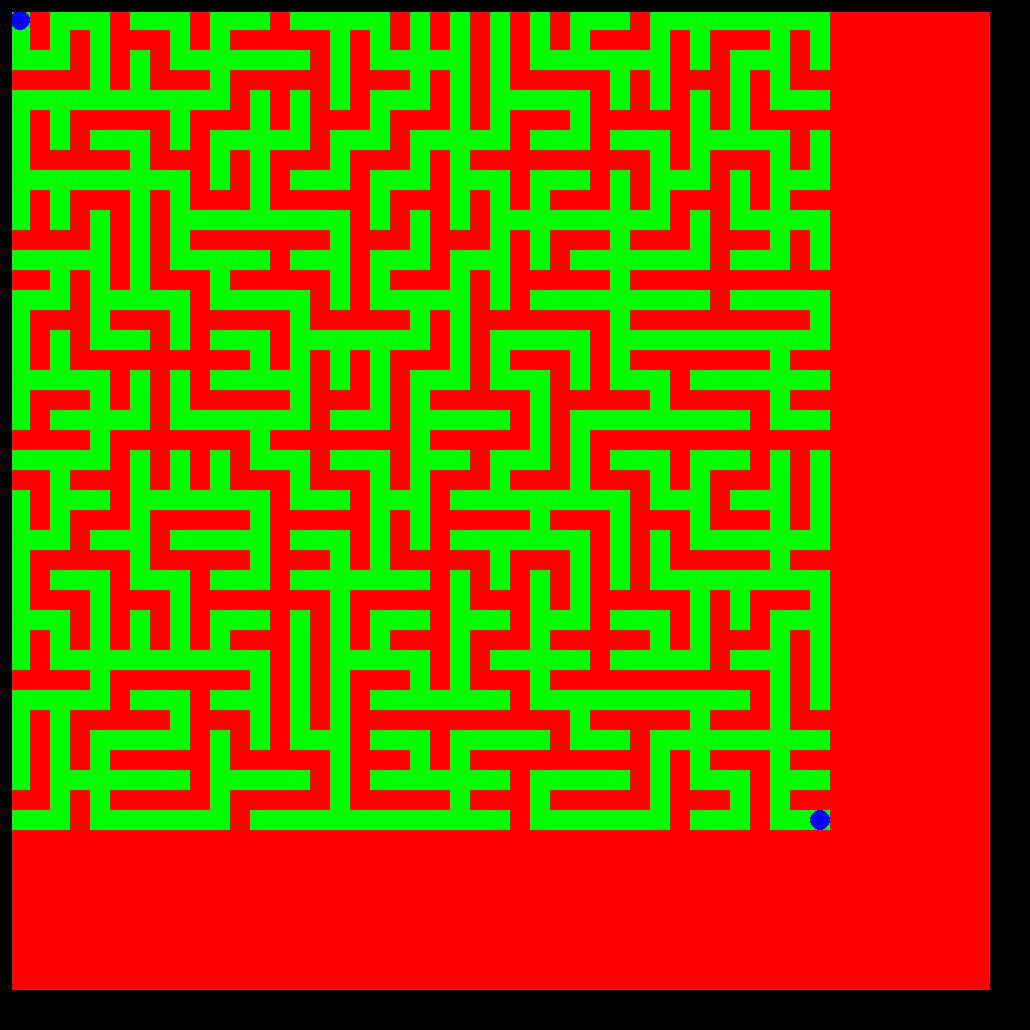
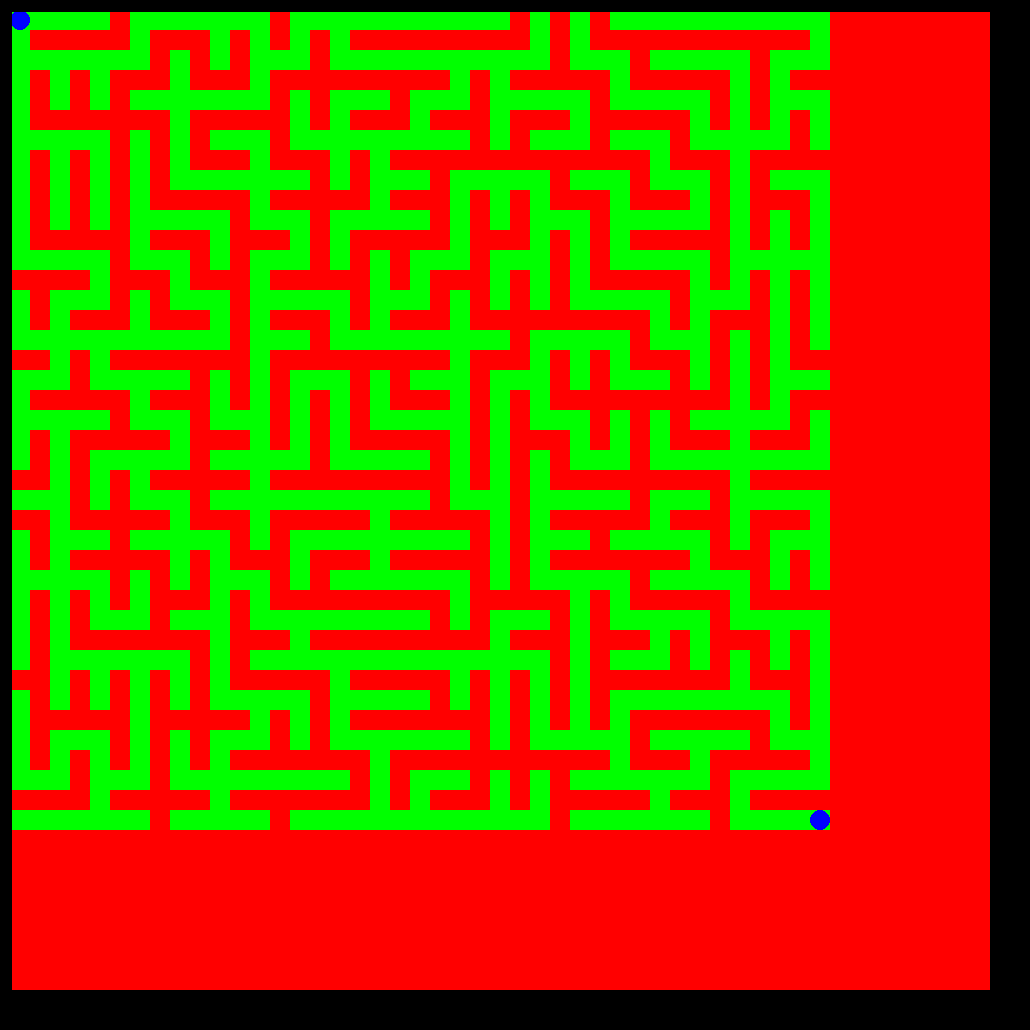
n_size and screensize

diff --git a/game.py b/game.py
@@ -7,6 +7,7 @@ from map_gen_wilson import WilsonMazeGenerator
 pygame.init()
 screensize = (1200,800)
 screen = pygame.display.set_mode(screensize) #size of the screen
+pygame.display.set_caption("Gay")
 clock = pygame.time.Clock()
 running = True
 dt = 0
@@ -25,6 +26,7 @@ lnk = "img_assets/"+charac_name+".png"
 sprite_img = pygame.image.load(lnk).convert_alpha()
 bg_tileset = pygame.image.load("img_assets/sheet.png").convert_alpha()
 main_bg = pygame.image.load("img_assets/catbg1.jpg")
+opt_bg = pygame.image.load('img_assets/optbg.png')
 flip_char = False               #is the character facing left?
 r_l_is = False                  #is it moving right and left?
 u_d_is = False                  #is it moving up and down?
@@ -47,7 +49,7 @@ pygame.mixer.music.play(-1)
 NDEBUG = True
 
 
-set1 = False
+set1 = True
 if set1:
     leftkey = pygame.K_a
     rightkey = pygame.K_d
@@ -128,6 +130,8 @@ bg_start = get_image(bg_tileset, 176, 96, 32, 32, scalebg, (0, 0, 0))
 bg_end = get_image(bg_tileset, 176, 128, 32, 32, scalebg, (0, 0, 0))
 
 main_img_backg = get_image(main_bg,120,25,1200,800,screensize,(0,0,0))
+opt_img_bg = get_image(opt_bg,0,0,1087,605,screensize,(0,0,0))
+
 
 #to see which type of mode is going on
 
@@ -343,8 +347,8 @@ def mask(screen,time,time_tot):
 
 
 ######## wilson maze renderer ########
-def wilson_maze():
-    maze = WilsonMazeGenerator(40,40)
+def wilson_maze(n_size):
+    maze = WilsonMazeGenerator(n_size,n_size)
     maze.generate_maze()
     maze.solve_maze()
     solution = maze.solution
@@ -363,14 +367,14 @@ def wilson_maze():
     maze.show_solution(True)
     path = path[::-1]
     print(path)
-    marked_map = [['' for i in range(49)] for j in range(49)]
-    for i in range(41):
-        for j in range(41):
-            if maze.grid[j][40 -i] != 0:
+    marked_map = [['' for i in range(n_size +9)] for j in range(n_size +9)]
+    for i in range(n_size +1):
+        for j in range(n_size +1):
+            if maze.grid[j][n_size -i] != 0:
                 marked_map[i][j] = str(random.randint(1,8))
                 marked_map[i][j] += 'i'
     marked_map[0][0] += 'q'
-    marked_map[40][40] += 'z'
+    marked_map[n_size][n_size] += 'z'
     
     
     return marked_map, solution
@@ -388,6 +392,7 @@ while running:
     time_strng = f"{total_min}:{total_sec}" if total_sec>=10 else f"{total_min}:0{total_sec}"
     if time_tot <= 0:
         mode = "gameover"
+        screen = pygame.display.set_mode(screensize)
         pygame.mixer.music.stop()
     mousedown = False
     
@@ -409,6 +414,16 @@ while running:
 
     match mode:
         case "startmenu":
+            if set1:
+                leftkey = pygame.K_a
+                rightkey = pygame.K_d
+                upkey = pygame.K_w
+                downkey = pygame.K_s
+            else:
+                leftkey = pygame.K_LEFT
+                rightkey = pygame.K_RIGHT
+                upkey = pygame.K_UP
+                downkey = pygame.K_DOWN
             #print(flag)
             screen.fill("black")
             screen.blit(main_img_backg,(0,0))
@@ -472,13 +487,13 @@ while running:
                 print("start")
             if mouseinbox2 and pygame.mouse.get_pressed()[0]:
                 mode = "gameon1"
-                marked_map,solution = wilson_maze()
+                n_size = 40
+                marked_map,solution = wilson_maze(n_size)
                 maze_img = pygame.display.set_mode((50+20*len(marked_map),50+20*len(marked_map)))
                 bg_generate_2(maze_img,marked_map)
                 pygame.image.save(maze_img,"marked_maze.png")
                 screen = pygame.display.set_mode((800, 1000))
                 time_tot = 240
-                n_size = 21
                 pygame.time.delay(100)
                 pygame.mixer.music.play(-1)
                 player_pos = (100,100)
@@ -553,7 +568,7 @@ while running:
             pygame.draw.rect(screen,"black",(0,800,800,200))
             font2 = pygame.font.Font("./dpcomic/dpcomic.ttf",60)
             text = font2.render(time_strng, True, "white")
-            screen.blit(text, (500, 800))
+            screen.blit(text, (500,800))
             mask(screen,time_tot,max_time)
             pygame.display.flip()
             dt = clock.tick(60) / 1000
@@ -562,7 +577,8 @@ while running:
             k = 15
             dt = 0
             for i in range(1*k,4*k):
-                create_bg(screen,marked_map,((2*n_size-2)*100+initpos[0]+50,(2*n_size-2)*100+initpos[1]+50))
+                
+                create_bg(screen,marked_map,[(n_size)*100+initpos[0]+50,(n_size)*100+initpos[1]+50])
                 img_copy = img_celeb[i//k].copy()
                 img_with_flip = pygame.transform.flip(img_copy, flip_char, False).convert_alpha()
                 screen.blit(img_copy, pygame.Vector2(screen.get_width() / 2, screen.get_height() / 2-100))
@@ -611,9 +627,10 @@ while running:
                 mousedown = False
         case "options":        
             screen.fill("black")
+            screen.blit(opt_img_bg,(0,0))
             font = pygame.font.Font(None, 74)
             text = font.render("Options", True, "white")
-            text_rect = text.get_rect(center=(screen.get_width() / 2, screen.get_height() / 2))
+            text_rect = text.get_rect(center=(screen.get_width() / 2, screen.get_height() / 2 - 180))
             screen.blit(text, text_rect)
             back_butt = pygame.draw.rect(screen,"white", (screen.get_width() / 2 - 60, screen.get_height() / 2 + 100, 120, 50),0,rounded_corn,rounded_corn,rounded_corn,rounded_corn)
             if(back_butt.collidepoint(pygame.mouse.get_pos())):
@@ -624,7 +641,31 @@ while running:
             font = pygame.font.Font(None, 30)
             text = font.render("Back", True, "black")
             text_rect = text.get_rect(center=(screen.get_width() / 2, screen.get_height() / 2 + 120))
+            change_butt = pygame.draw.rect(screen,"white", (screen.get_width() / 2 - 90, screen.get_height() / 2 - 30, 180, 50),0,rounded_corn,rounded_corn,rounded_corn,rounded_corn)
             screen.blit(text,text_rect)
+            text_2 = font.render("Change Controls",True,"black")
+            text_rect_2 = text_2.get_rect(center=(screen.get_width()/2,screen.get_height()/2))
+            
+            if(change_butt.collidepoint(pygame.mouse.get_pos())): 
+                pygame.draw.rect(screen,"grey", (screen.get_width() / 2 - 95, screen.get_height() / 2 -35, 190, 60),0,rounded_corn,rounded_corn,rounded_corn,rounded_corn)
+                mouseinoptbx = True
+            else:
+                mouseinoptbx = False
+            screen.blit(text_2,text_rect_2)
+            font= pygame.font.Font(None,50)
+            if mouseinoptbx and mousedown:
+                if set1:
+                    set1 = False
+                else:
+                    set1 = True
+                pygame.time.delay(500)
+                mousedown = False
+            if set1:
+                text3 = font.render("WASD mode",True,"white")
+            else:
+                text3 = font.render("Arrow mode",True,"white")
+            text_rect3 = text3.get_rect(center=(screen.get_width()/2,screen.get_height()/2+50))
+            screen.blit(text3,text_rect3)
             pygame.display.flip()
             dt = 0
             clock.tick(60)
@@ -637,7 +678,9 @@ while running:
     
     if pygame.key.get_pressed()[pygame.K_SPACE]:
         mode = "gameover"
+        screen = pygame.display.set_mode(screensize)
         pygame.mixer.music.stop()
+
         print("gameover")
 pygame.quit()
 
